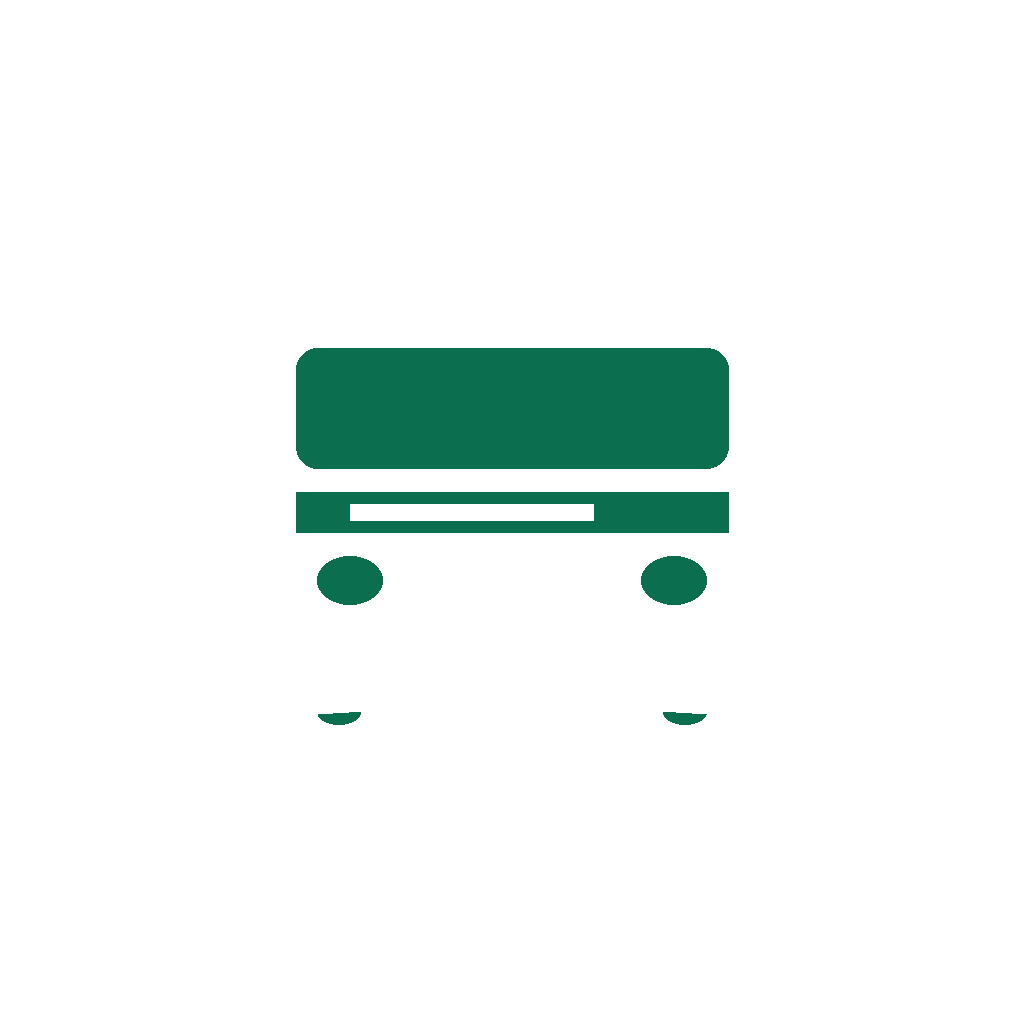
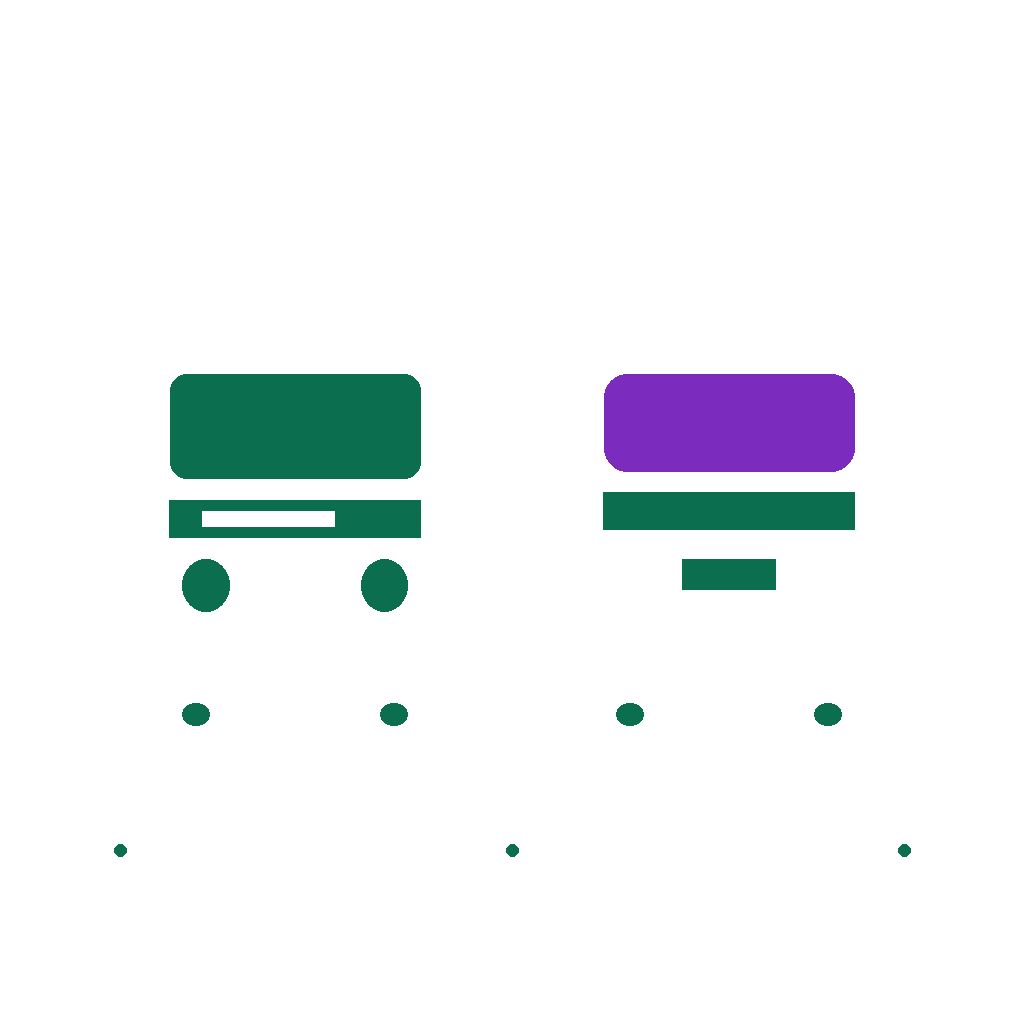
Dual bus+metro brand mark with animated boot screen

diff --git a/apps/mobile/app/_layout.tsx b/apps/mobile/app/_layout.tsx
@@ -1,40 +1,114 @@
+import { useEffect, useRef, useState } from 'react';
+import { Animated, StyleSheet, Text, View } from 'react-native';
 import { Tabs } from 'expo-router';
+import * as SplashScreen from 'expo-splash-screen';
 import { Ionicons } from '@expo/vector-icons';
 import { theme } from '../src/ui/theme';
+import { BrandMark } from '../src/components/BrandMark';
 
-export default function Layout(): React.JSX.Element {
+void SplashScreen.preventAutoHideAsync().catch(() => undefined);
+
+function BootOverlay({ done }: { done: () => void }): React.JSX.Element {
+  const fade = useRef(new Animated.Value(0)).current;
+  const scale = useRef(new Animated.Value(0.85)).current;
+  const dot = useRef(new Animated.Value(0)).current;
+
+  useEffect(() => {
+    const anim = Animated.parallel([
+      Animated.timing(fade, { toValue: 1, duration: 500, useNativeDriver: true }),
+      Animated.spring(scale, { toValue: 1, friction: 6, useNativeDriver: true }),
+      Animated.timing(dot, { toValue: 1, duration: 1400, useNativeDriver: true }),
+    ]);
+    anim.start();
+    const t = setTimeout(done, 1700);
+    return () => {
+      anim.stop();
+      clearTimeout(t);
+    };
+  }, [dot, fade, scale, done]);
+
+  const dotX = dot.interpolate({ inputRange: [0, 1], outputRange: [-72, 72] });
+
   return (
-    <Tabs
-      screenOptions={{
-        headerStyle: { backgroundColor: theme.primary },
-        headerTintColor: '#fff',
-        headerTitleStyle: { fontWeight: '700' },
-        tabBarActiveTintColor: theme.primary,
-        tabBarInactiveTintColor: '#8a94a6',
-      }}
-    >
-      <Tabs.Screen
-        name="index"
-        options={{
-          title: 'Plan',
-          tabBarIcon: ({ color, size }) => (
-            <Ionicons name="search-outline" color={color} size={size} />
-          ),
-        }}
-      />
-      <Tabs.Screen
-        name="stops"
-        options={{
-          title: 'Stops',
-          tabBarIcon: ({ color, size }) => (
-            <Ionicons name="bus-outline" color={color} size={size} />
-          ),
-        }}
-      />
-      <Tabs.Screen name="results" options={{ href: null }} />
-      <Tabs.Screen name="itinerary" options={{ href: null }} />
-      <Tabs.Screen name="stop" options={{ href: null }} />
-      <Tabs.Screen name="pick" options={{ href: null }} />
-    </Tabs>
+    <Animated.View style={[styles.boot, { opacity: fade }]}>
+      <Animated.View style={{ transform: [{ scale }] }}>
+        <BrandMark size={168} />
+      </Animated.View>
+      <Animated.View style={[styles.dot, { transform: [{ translateX: dotX }] }]} />
+      <Text style={styles.word}>Safar</Text>
+      <Text style={styles.sub}>Bus & Metro, simplified</Text>
+    </Animated.View>
   );
 }
+
+export default function Layout(): React.JSX.Element {
+  const [booted, setBooted] = useState(false);
+
+  useEffect(() => {
+    // Our animated overlay takes over immediately; never leave it stuck.
+    void SplashScreen.hideAsync().catch(() => undefined);
+    const failsafe = setTimeout(() => setBooted(true), 3000);
+    return () => clearTimeout(failsafe);
+  }, []);
+
+  return (
+    <View style={{ flex: 1 }}>
+      <Tabs
+        screenOptions={{
+          headerStyle: { backgroundColor: theme.primary },
+          headerTintColor: '#fff',
+          headerTitleStyle: { fontWeight: '700' },
+          tabBarActiveTintColor: theme.primary,
+          tabBarInactiveTintColor: '#8a94a6',
+        }}
+      >
+        <Tabs.Screen
+          name="index"
+          options={{
+            title: 'Plan',
+            tabBarIcon: ({ color, size }) => (
+              <Ionicons name="search-outline" color={color} size={size} />
+            ),
+          }}
+        />
+        <Tabs.Screen
+          name="stops"
+          options={{
+            title: 'Stops',
+            tabBarIcon: ({ color, size }) => (
+              <Ionicons name="bus-outline" color={color} size={size} />
+            ),
+          }}
+        />
+        <Tabs.Screen name="results" options={{ href: null }} />
+        <Tabs.Screen name="itinerary" options={{ href: null }} />
+        <Tabs.Screen name="stop" options={{ href: null }} />
+        <Tabs.Screen name="pick" options={{ href: null }} />
+      </Tabs>
+      {booted ? null : <BootOverlay done={() => setBooted(true)} />}
+    </View>
+  );
+}
+
+const styles = StyleSheet.create({
+  boot: {
+    position: 'absolute',
+    top: 0,
+    left: 0,
+    right: 0,
+    bottom: 0,
+    backgroundColor: theme.primary,
+    alignItems: 'center',
+    justifyContent: 'center',
+    gap: 6,
+  },
+  dot: {
+    width: 14,
+    height: 14,
+    borderRadius: 7,
+    backgroundColor: '#fff',
+    marginTop: 10,
+  },
+  word: { color: '#fff', fontSize: 34, fontWeight: '800', marginTop: 4 },
+  sub: { color: 'rgba(255,255,255,0.8)', fontSize: 15 },
+});

diff --git a/apps/mobile/src/components/BrandMark.tsx b/apps/mobile/src/components/BrandMark.tsx
@@ -1,0 +1,55 @@
+import Svg, { Circle, G, Line, Rect } from 'react-native-svg';
+
+const TEAL = '#0B6E4F';
+const WHITE = '#FFFFFF';
+const PURPLE = '#7B2CBF';
+
+/** Safar brand mark: bus + metro on a shared route line. Any size. */
+export function BrandMark({ size = 120 }: { size?: number }): React.JSX.Element {
+  return (
+    <Svg width={size} height={size} viewBox="0 0 512 512">
+      <Rect x={8} y={8} width={496} height={496} rx={112} fill={TEAL} />
+      {/* Bus (left) */}
+      <G fill={WHITE}>
+        <Rect x={64} y={148} width={168} height={188} rx={26} />
+        <Circle cx={116} cy={352} r={26} />
+        <Circle cx={196} cy={352} r={26} />
+      </G>
+      <Rect x={88} y={172} width={120} height={66} rx={12} fill={TEAL} />
+      <Rect x={88} y={248} width={120} height={16} rx={4} fill={TEAL} />
+      <Rect x={104} y={252} width={52} height={8} rx={2} fill={WHITE} />
+      <Circle cx={112} cy={292} r={13} fill={TEAL} />
+      <Circle cx={184} cy={292} r={13} fill={TEAL} />
+      <Circle cx={116} cy={352} r={10} fill={TEAL} />
+      <Circle cx={196} cy={352} r={10} fill={TEAL} />
+      {/* Metro (right) */}
+      <G fill={WHITE}>
+        <Rect x={280} y={148} width={168} height={188} rx={44} />
+        <Circle cx={328} cy={352} r={26} />
+        <Circle cx={400} cy={352} r={26} />
+      </G>
+      <Rect x={304} y={172} width={120} height={60} rx={14} fill={PURPLE} />
+      <Rect x={304} y={242} width={120} height={16} rx={4} fill={TEAL} />
+      <Circle cx={328} cy={352} r={10} fill={TEAL} />
+      <Circle cx={400} cy={352} r={10} fill={TEAL} />
+      <Rect x={348} y={286} width={32} height={12} rx={6} fill={TEAL} />
+      {/* Shared route line with stops */}
+      <Line
+        x1={56}
+        y1={412}
+        x2={456}
+        y2={412}
+        stroke={WHITE}
+        strokeWidth={10}
+        strokeLinecap="round"
+        strokeDasharray="2,22"
+      />
+      {[56, 256, 456].map((cx) => (
+        <G key={cx}>
+          <Circle cx={cx} cy={412} r={14} fill={WHITE} />
+          <Circle cx={cx} cy={412} r={6} fill={TEAL} />
+        </G>
+      ))}
+    </Svg>
+  );
+}
